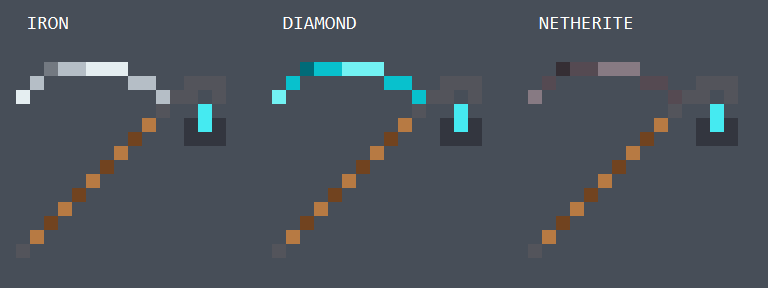
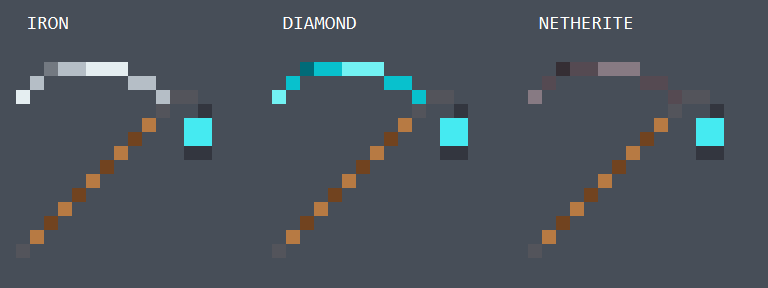
art: restore compact lanterns with two-pixel-high cyan flames

Changed region(s): [[0.2188, 0.3438, 0.3125, 0.5625], [0.9062, 0.3438, 0.9688, 0.5625], [0.5625, 0.3438, 0.625, 0.5625]]

diff --git a/CHANGELOG.md b/CHANGELOG.md
@@ -2,7 +2,7 @@
 
 ## Unreleased
 
-- Shape inventory lanterns with two vertically stacked cyan pixels, transparent upper body corners and a small gray hanging loop; keep held models unchanged.
+- Keep compact two-pixel-wide inventory lanterns with a narrow top cap, a two-pixel-high cyan area and a dark bottom rim; keep held models unchanged.
 - Redraw the 16x16 inventory scythes in a clockwise-rotated layout matching their crafting recipe: shaft from bottom-left to upper-right, thin colored blade across the top and lantern at the right. Remove the black blade band from icons only; retain held artwork, mesh, grip and view transforms.
 - Move the held scythe's third-person grip to the middle of its shaft while preserving the user-approved rotations, scales and first-person framing. Replace automatically extruded held-item geometry with closed opaque rectangles and texel-center edge UVs to address see-through seams; preserve the artwork and 16x16 inventory icons. In-game confirmation remains deferred to the user.
 - Replace scythe art with wooden shafts, left-facing crescent blades and soul lanterns. Keep cutting edges black while changing only blade-face colors between iron, diamond and netherite.

diff --git a/art/scythes/README.md b/art/scythes/README.md
@@ -7,9 +7,9 @@ blade and hanging soul lantern. On held models, the cutting edge stays black;
 the broad blade face changes to silver iron, cyan diamond or muted netherite.
 Inventory icons use a thinner, single-pixel colored blade without the black band.
 Their clockwise-rotated layout follows the crafting recipe: shaft from bottom-left
-to upper-right, blade across the top and a lantern at the right. Its two cyan
-pixels stack vertically in a three-pixel-wide body with transparent upper
-corners and a small gray hanging loop. Shafts, fittings
+to upper-right, blade across the top and a compact, two-pixel-wide lantern at
+the right. Its cyan area is two pixels high (2x2), with a narrow top cap and
+a dark bottom rim. Shafts, fittings
 and lantern colors share the same palette in inventory icons.
 
 ![Magnified 16x16 inventory icons](inventory-preview.png)
